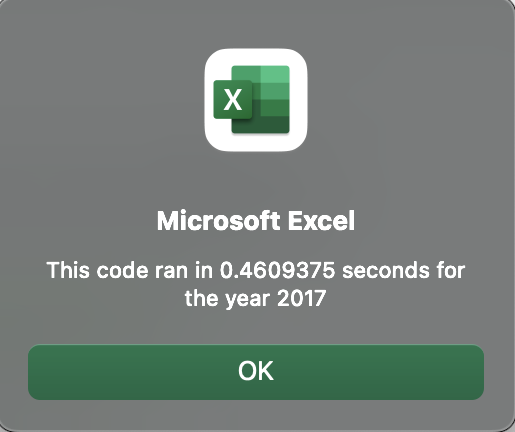
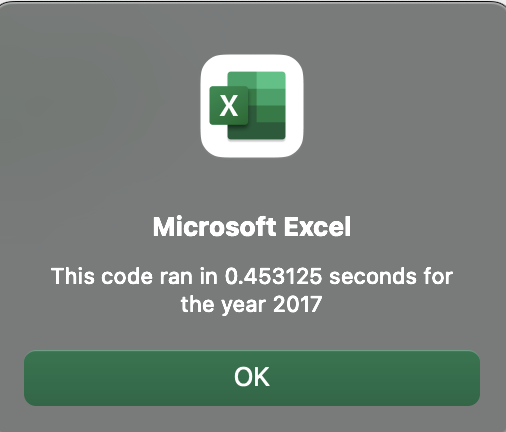
Corrected ReadMe with Data Set Adjustments

diff --git a/README.md b/README.md
@@ -3,7 +3,7 @@
 ## Overview of Project
 
 ### Purpose
-The current code allows the user to analyze a few stocks at once but may not work as well when expanded to thousands of stocks. To test this I will refactor the exisitng code which will allow the user to analyze the entire stock market and then determine if the refactor decreased script run time.
+The current code allows the user to analyze a few stocks at once but may not work as well when expanded to thousands of stocks. To test this I will refactor the exisitng code which will allow the user to analyze the entire stock data set and then determine if the refactor decreased script run time.
 
 ## Results
 One of the changes I made was to run all of the code including the formatting in the same subroutine whereas the original code had them seperated into seperate subroutines. 
@@ -17,7 +17,7 @@ A big change that was made in the refactored code was to loop the entire sheet i
 "tickerVolumes(tickerIndex) = tickerVolumes(tickerIndex) + Cells(i, 8).Value" 
 This allowed volume of the current "tickerVolumes" to increase by using the "tickerIndex" variable.
 
-The results are that the refactored code may look nicer and easy to follow however it takes longer to run. Most likely this is because the refactored code loops the entire stock data set instead of specifying cells. 
+The results are that the refactored code may look nicer and easy to follow however it took a bit longer to write. That being said the, the refactored code runs quicker despite looping through a much larger data set.
 
 Refactored 2017 Results:
 ![VBA_Challenge_2017.png](/Resources/VBA_Challenge_2017.png)
@@ -34,7 +34,7 @@ Original 2018 Results:
 ## Summary
 
 - What are the advantages or disadvantages of refactoring the code?
-The refactored code took longer to write and although it takes longer to run it does go through the entire Data Set where as the orignal code only takes into account designated cells.
+The refactored code took longer to write and although it takes longer to run it does go through the entire Data Set where as the orignal code only takes into account designated cells. Another benefit is that the refactored code completes quicker.
 
 - How do these pros and cons apply to refactoring the original VBA script?
-Refactoring the code is a time investment and more taxing for the system to run but it does give results over the whole data set without the user having to change cell designation. 
+Refactoring the code is a time investment but is less taxing to run. Mostly this script is a time investment.
